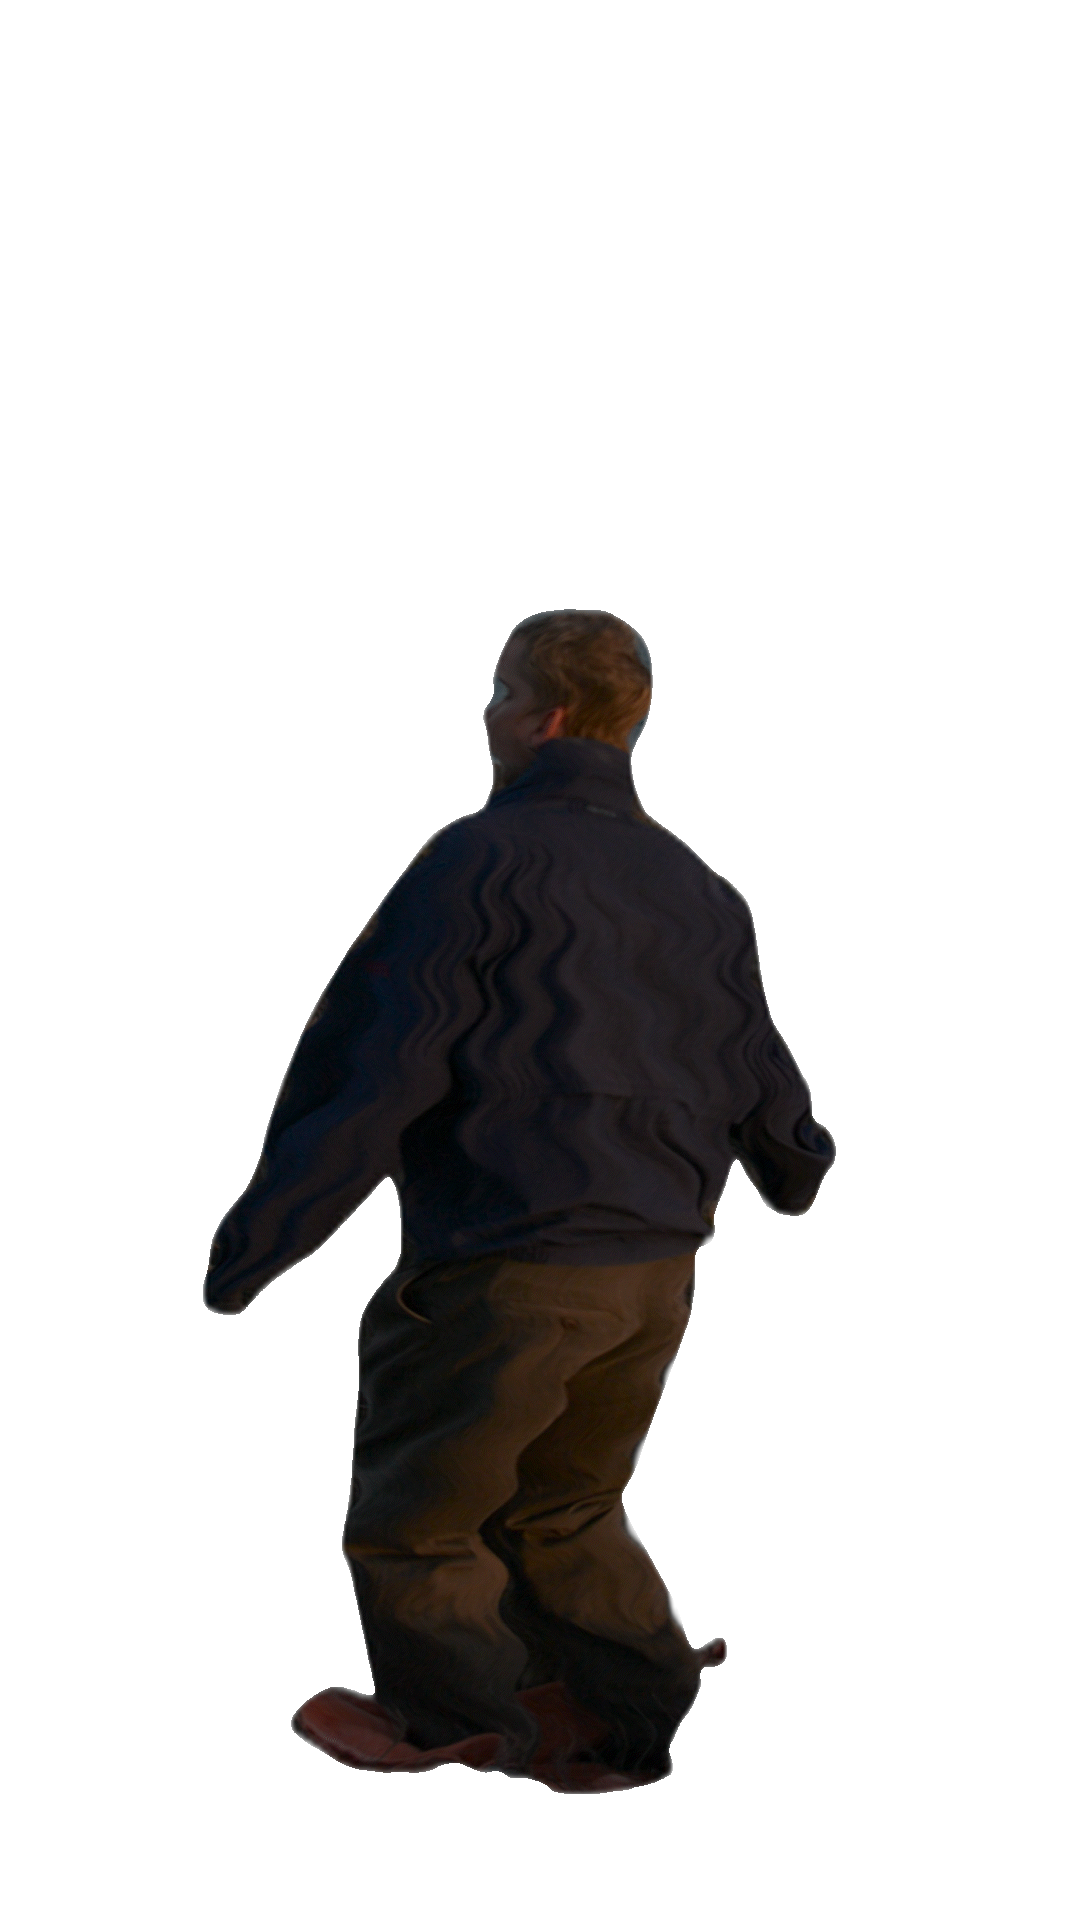
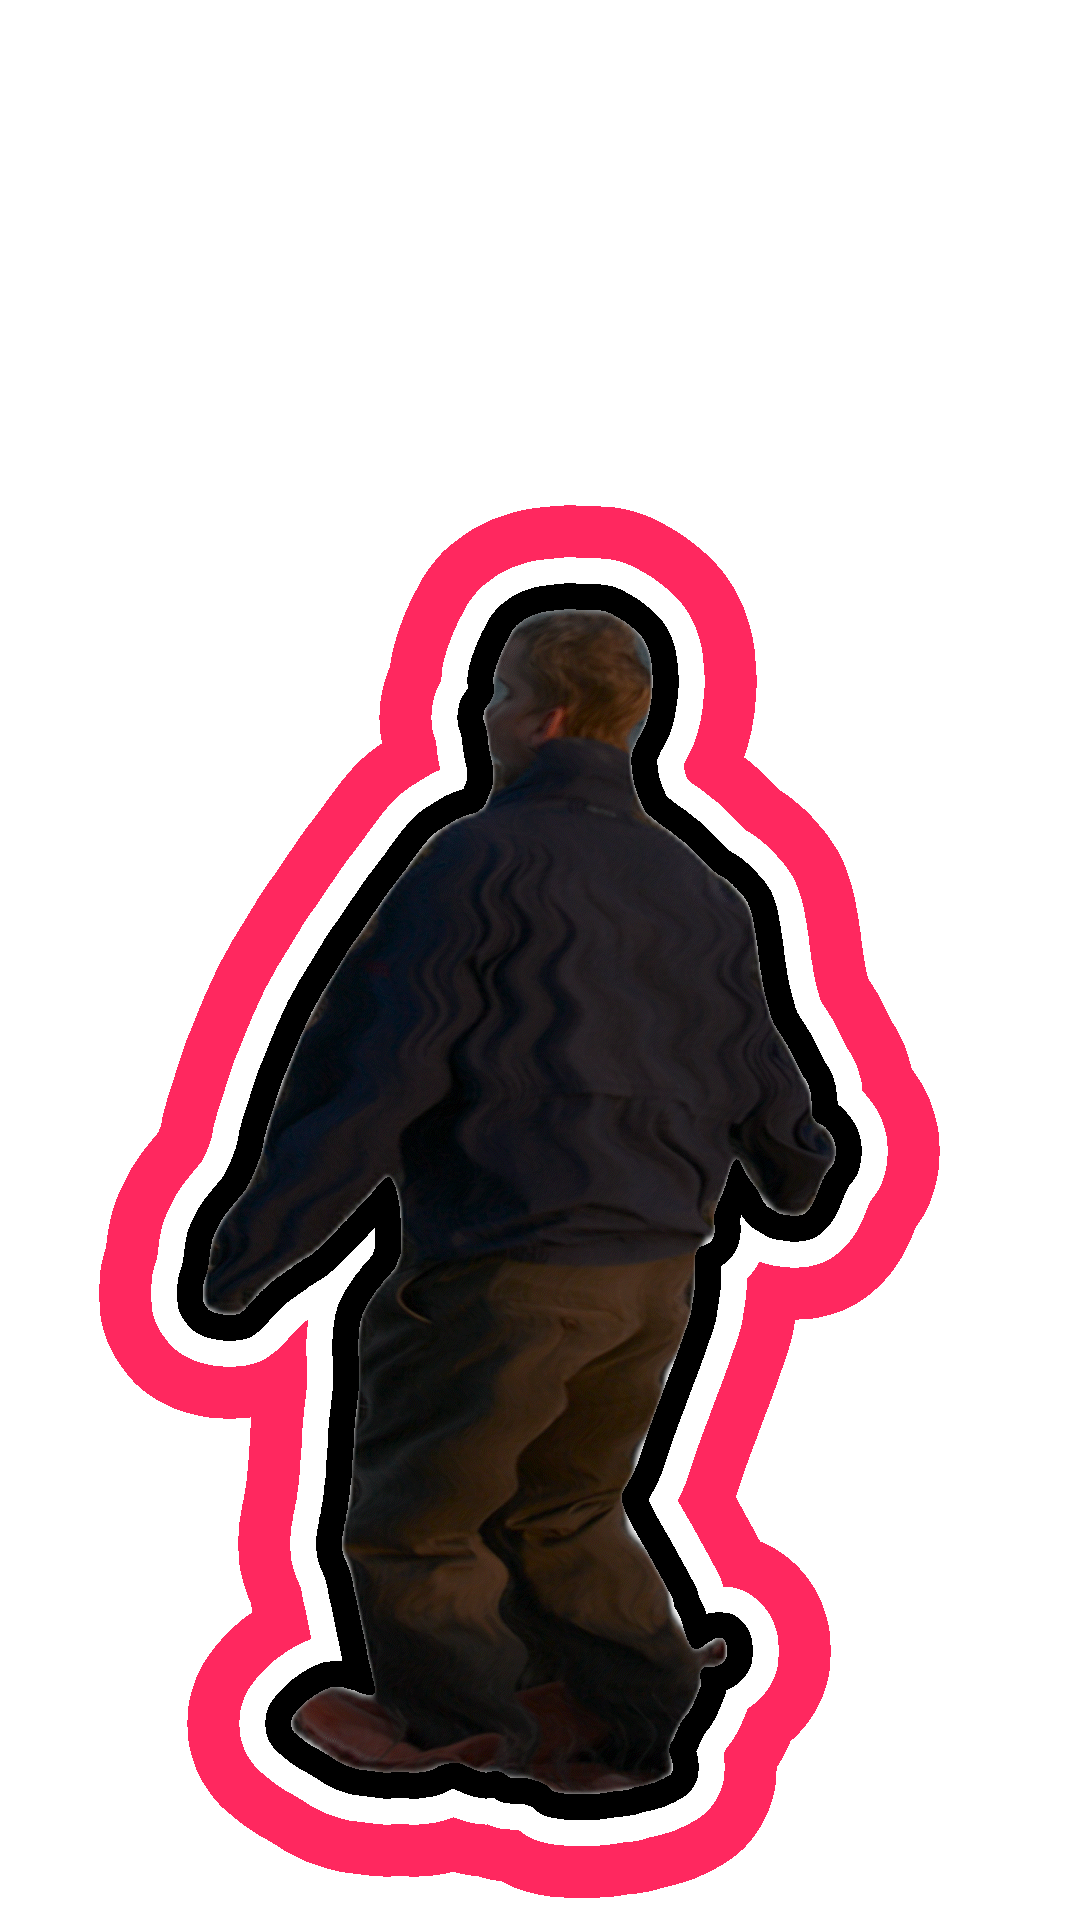
blackbird-palette outlines + fix dance box sizing

Changed region(s): [[0.0917, 0.25, 0.8861, 1.0]]

diff --git a/src/components/DanceScroll.tsx b/src/components/DanceScroll.tsx
@@ -244,8 +244,8 @@ export default function DanceScroll() {
         ref={boxRef}
         style={{
           position: "relative",
-          width: "min(90vw, 800px)",
-          aspectRatio: "16 / 9",
+          width: "min(90vw, 450px)",
+          aspectRatio: "9 / 16",
           overflow: "hidden",
           background: "#000",
         }}
